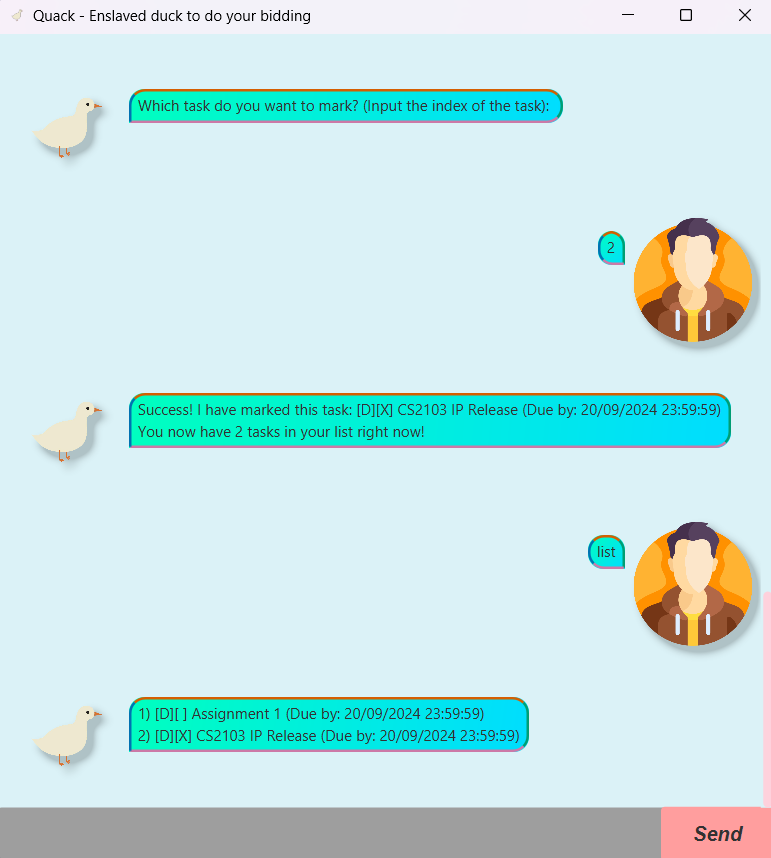
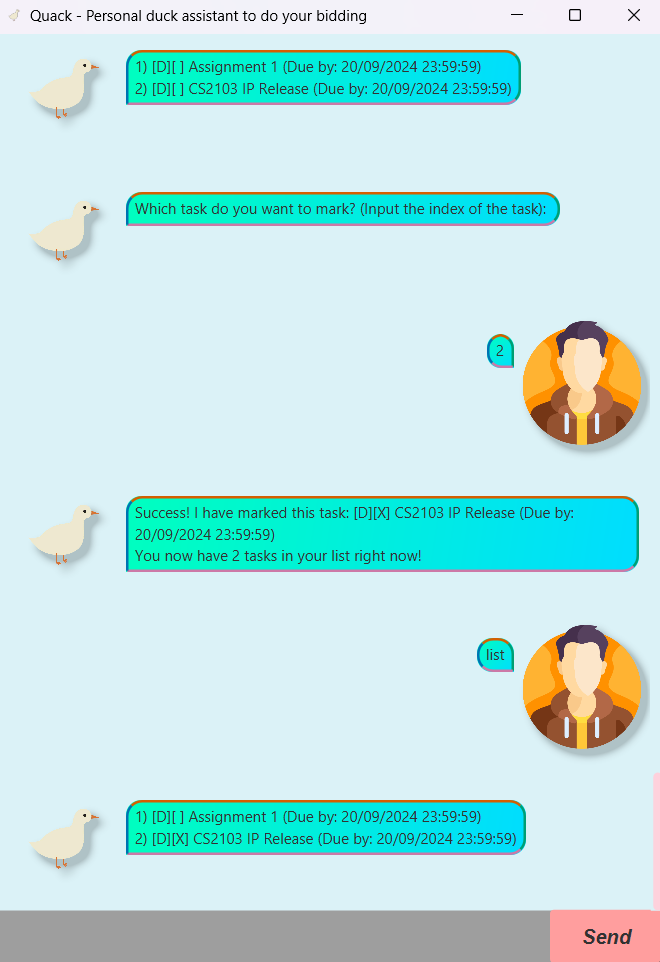
Add user guide to Quack

diff --git a/src/main/java/quack/gui/Main.java b/src/main/java/quack/gui/Main.java
@@ -25,7 +25,7 @@ public class Main extends Application {
             Scene scene = new Scene(ap);
             stage.setScene(scene);
             fxmlLoader.<MainWindow>getController().setQuack();
-            stage.setTitle("Quack - Enslaved duck to do your bidding");
+            stage.setTitle("Quack - Personal duck assistant to do your bidding");
             stage.getIcons().add(quackImage);
             stage.show();
         } catch (IOException e) {

diff --git a/docs/README.md b/docs/README.md
@@ -1,30 +1,230 @@
-# Quack User Guide
+# Quack - Your Personal Duck Assistant 
+---
+<div style="display: flex; align-items: flex-start;">
+  <image src="..\src\main\resources\images\duck.png" width="450" height="400">
+  <p style="margin-left: 10px; padding-top: 100px;">Hello nice to meet you I am your personal assistant</p>
+</div>
 
-   ```
-   ________                       __    
-   \_____  \  __ _______    ____ |  | __
-   /  / \  \|  |  \__  \ _/ ___\|  |/ /
-   /   \_/.  \  |  // __ \\  \___|    < 
-   \_____\ \_/____/(____  /\___  >__|_ \ 
-         \__>          \/     \/     \/
+## What is Quack
+Quack is a user friendly assistant which helps you keep track of pesky tasks and ensures you don't miss out on anything important!
 
-   Hello! I'm just an ordinary duck.
-   ```
+## Supported Features
+Here is a list of feaures that quack supports
+   1) List your tasks
+   2) Add a todo/deadline/event task
+   3) Find tasks inside yourlist
+   4) Delete tasks in your list
+   5) Mark or unmark tasks in your list
+   6) Tag or untag tasks inside your list for better organisation
+   7) A help feature to list all possible commands
 
-// Product intro goes here
+# Setting up Quack
+---
 
-Adding deadlines
-// Describe the action and its outcome.
+If you are using the `.jar` to run the program please skip to the [[#Quick Start by Running the JAR file|quick start]] portion of the guide.
 
-// Give examples of usage
+## InteliJ
+   Prerequisites: JDK 17, update Intellij to the most recent version.
 
-Example: keyword (optional arguments)
+   1. Open Intellij (if you are not in the welcome screen, click `File` > `Close Project` to close the existing project first)
+   2. Open the project into Intellij as follows:
+      - Click `Open`.
+      - Select the project directory, and click `OK`.
+      - If there are any further prompts, accept the defaults.
+   3. Configure the project to use **JDK 17** (not other versions) as explained in [here](https://www.jetbrains.com/help/idea/sdk.html#set-up-jdk).<br>
+      In the same dialog, set the **Project language level** field to the `SDK default` option.
+   4. Ensure Gradle is installed
+   5. After that, run gradle either by CLI `gradle run` or using the inbuilt Gradle GUI in IntelliJ. Running `gradle build` is optional but recommended
 
-// A description of the expected outcome goes here
+## VSCode
+   For VSCode :
+   1. Open VSCode
+   2. Open the project into VSCode as follows:
+      - Click `File` then `Open Folder`.
+      - Select the project directory, and click `OK`.
+      - If there are any further prompts, accept the defaults.
+   3. Configure the project to use **JDK 17** (not other versions) as explained in [here](https://www.jetbrains.com/help/idea/sdk.html#set-up-jdk).<br>
+   4. Ensure Gradle is installed
+   5. After that, run gradle either by CLI `gradle run` or using the inbuilt Gradle GUI on the side pannel to the left/right. Running `gradle build` is optional but recommended
 
-expected output
-Feature ABC
-// Feature details
+## Quick Start by Running the JAR file
 
-Feature XYZ
-// Feature details
+   1) Ensure you have JDK-17.0.12 or equivalent is installed locally in your Computer
+   2) Download the latest `.jar` file from here
+   3) Copy the file to the folder you want to use as the home folder for Quack.
+   4) Open a command terminal, `cd` into the folder you put the `.jar` file in, and use the following command`java -jar quack.jar` to run the application.
+
+> Please note that A GUI similar to the below should appear in a few seconds. Note that the image shows some sample data and some uage examples.
+
+<div style="display: flex; align-items: center; justify-content: center;">
+  <image src="Ui.png">
+</div>
+<br></br>
+
+   4) Type a command in the text input at the bottom and press Send to execute it
+   5) For what commands to type, just key in `help` into the text input
+
+# Features
+---
+
+> Do note that the images to display expected outcomes uses sample data
+
+## Listing Tasks - `list`
+Displays a list of all tasks that is being kept track of by Quack.
+
+Format: `list`
+
+__Sample Output:__
+<div style="display: flex; align-items: center; justify-content: center;">
+  <image src="expected-outputs\List-Command.png">
+</div>
+
+## Listing Tasks - `add`
+Adds a todo, deadline or event task into Quack's task list.
+
+Depending on what task type Quack will prompt you the necessary information part by part.
+
+Format
+- `add`
+- `<Task Type>`
+- `<Task information>`
+
+__Example__:
+- `add`
+- < Quack will prompt you what type of task you want to add >
+- `todo`
+- < Quack will prompt you the task description >
+- `Complete assignment`
+
+> For deadline and event tasks, Quack will prompt you for some date input in ths following format: DD/MM/YYYY HH:MM:SS
+
+__Sample Output:__
+<div style="display: flex; align-items: center; justify-content: center;">
+  <image src="expected-outputs\Add-Task-Command.png">
+</div>
+
+## Finding Tasks - `find`
+Ask Quack to find all tasks that matches the description or contains a substring of the description.
+
+Format
+- `find`
+- `<Task description>`
+
+__Example__:
+- `find`
+- < Quack will prompt you what task you will like to find >
+- `Assignment`
+
+__Sample Output:__
+<div style="display: flex; align-items: center; justify-content: center;">
+  <image src="expected-outputs\Find-Task-Command.png">
+</div>
+
+## Deleting Tasks - `delete`
+Ask Quack to delete a task from the list based on the tasks index.
+
+Format
+- `delete`
+- `<Task index as shown in the list>`
+
+__Example__:
+- `delete`
+- < Quack will prompt you what task you will like to delete >
+- `3`
+
+__Sample Output:__
+<div style="display: flex; align-items: center; justify-content: center;">
+  <image src="expected-outputs\Delete-Task-Command.png">
+</div>
+
+## Marking and Unmarking Tasks - `mark` & `unmark`
+You can ask Quack to mark and unmark tasks based on the tasks index.
+
+Format
+- `mark` or `unmark`
+- `<Task index as shown in the list>`
+
+__Example__:
+- `mark`
+- < Quack will prompt you what task you will like to mark >
+- `2`
+
+__Sample Output:__
+<div style="display: flex; align-items: center; justify-content: center;">
+  <image src="expected-outputs\Mark-Unmark-Task-Command.png">
+</div>
+
+## Tagging and Untagging Tasks - `tag` & `untag`
+You can ask Quack to tag or untag tasks to organise your tasks.
+
+Format
+- `tag` or `untag`
+- `<Task index as shown in the list>`
+- `<Tag label>`
+
+__Example__:
+- `tag`
+- < Quack will prompt you what task you will like to tag >
+- `2`
+- < Quack will prompt you for the tag lable>
+- `CS2103`
+
+> For untagging Quack will not prompt you for a tag label
+
+__Sample Output:__
+<div style="display: flex; align-items: center; justify-content: center;">
+  <image src="expected-outputs\Tag-Untag-Task-Command.png">
+</div>
+
+## Help function - `help`
+In the event the user forgets the commands to type, they can ask quack to list it out.
+
+Format
+- `help`
+
+__Example__:
+- `tag`
+- < Quack will print all the supported commands >
+
+__Sample Output:__
+<div style="display: flex; align-items: center; justify-content: center;">
+  <image src="expected-outputs\Help-Command.png">
+</div>
+
+## Exiting the program - `bye`
+This is to close the program properly
+
+Format
+- bye`
+
+__Example__:
+- `bye`
+- < Quack will stop running >
+
+> After awhile the window will be closed after the `bye` command is executed
+
+__Sample Output:__
+<div style="display: flex; align-items: center; justify-content: center;">
+  <image src="expected-outputs\Bye-Command.png">
+</div>
+
+## Saving & loading of tasks
+Quack will save any data automatically once the `bye` command has been executed. There is no need to manually save.
+
+Quack will also automatically load in the saved data when the program first runs.
+
+# References
+---
+
+## Website to generate the ASCII Logo
+The website to generate the ASCII Logo can be found [here]((https://www.google.com/url?sa=t&rct=j&q=&esrc=s&source=web&cd=&cad=rja&uact=8&ved=2ahUKEwjNkMjnx_6HAxVN6zgGHSk9NLYQFnoECBwQAQ&url=https%3A%2F%2Fpatorjk.com%2Fsoftware%2Ftaag%2F&usg=AOvVaw1rmNDfu2i-RQ4_TslxEwcR&opi=89978449)).
+
+## Profile Pictures
+
+### Duck Icon
+
+For the duck icon it was retrieved [here](https://www.vecteezy.com/vector-art/25668392-simple-and-adorable-flat-colored-white-duck-illustration).
+
+### Person Icon
+
+For the person icon it was retrieved [here](https://www.flaticon.com/free-icon/man_4140061).

diff --git a/README.md b/README.md
@@ -1,23 +1,20 @@
-# Quack User Guide
-
-   ```
-   ________                       __    
-   \_____  \  __ _______    ____ |  | __
-   /  / \  \|  |  \__  \ _/ ___\|  |/ /
-   /   \_/.  \  |  // __ \\  \___|    < 
-   \_____\ \_/____/(____  /\___  >__|_ \ 
-         \__>          \/     \/     \/
-
-   Hello! I'm just an ordinary duck.
-   ```
+# Quack Setup Guide
+---
+<div style="display: flex; align-items: flex-start;">
+  <image src="src\main\resources\images\duck.png" width="450" height="400">
+  <p style="margin-left: 10px; padding-top: 100px;">Hello nice to meet you I am your personal assistant</p>
+</div>
 
 ## What is Quack?
 
-   Quack is a friendly chatbot which helps you keep track of pesky tasks, events or deadlines!
+   Quack is a user friendly assistant which helps you keep track of pesky tasks and ensures you don't miss out on anything important!
 
-## Setting up Quack
-   
-   ### InteliJ
+# Setting up Quack
+---
+
+If you are using the `.jar` to run the program please skip to the [[#Quick Start by Running the JAR file|quick start]] portion of the guide.
+
+## InteliJ
    Prerequisites: JDK 17, update Intellij to the most recent version.
 
    1. Open Intellij (if you are not in the welcome screen, click `File` > `Close Project` to close the existing project first)
@@ -30,7 +27,7 @@
    4. Ensure Gradle is installed
    5. After that, run gradle either by CLI `gradle run` or using the inbuilt Gradle GUI in IntelliJ. Running `gradle build` is optional but recommended
 
-   ### VSCode
+## VSCode
    For VSCode :
    1. Open VSCode
    2. Open the project into VSCode as follows:
@@ -41,8 +38,15 @@
    4. Ensure Gradle is installed
    5. After that, run gradle either by CLI `gradle run` or using the inbuilt Gradle GUI on the side pannel to the left/right. Running `gradle build` is optional but recommended
 
-# Features
+## Quick Start by Running the JAR file
 
+   1) Ensure you have JDK-17.0.12 or equivalent is installed locally in your Computer
+   2) Download the latest `.jar` file from here
+   3) Copy the file to the folder you want to use as the home folder for Quack.
+   4) Open a command terminal, `cd` into the folder you put the `.jar` file in, and use the following command`java -jar quack.jar` to run the application.
+
+# Features
+---
 Here is a list of features:
 
 * Adding a task
@@ -54,19 +58,20 @@ Here is a list of features:
 * Marking & unmarking tasks
 * Deleting a task
 * Tagging a Task
-* Filtering Tasks
-* Ending the chatbot
+* Finding Tasks
 
 # References
+---
 
 ## Website to generate the ASCII Logo
-
-https://www.google.com/url?sa=t&rct=j&q=&esrc=s&source=web&cd=&cad=rja&uact=8&ved=2ahUKEwjNkMjnx_6HAxVN6zgGHSk9NLYQFnoECBwQAQ&url=https%3A%2F%2Fpatorjk.com%2Fsoftware%2Ftaag%2F&usg=AOvVaw1rmNDfu2i-RQ4_TslxEwcR&opi=89978449
+The website to generate the ASCII Logo can be found [here]((https://www.google.com/url?sa=t&rct=j&q=&esrc=s&source=web&cd=&cad=rja&uact=8&ved=2ahUKEwjNkMjnx_6HAxVN6zgGHSk9NLYQFnoECBwQAQ&url=https%3A%2F%2Fpatorjk.com%2Fsoftware%2Ftaag%2F&usg=AOvVaw1rmNDfu2i-RQ4_TslxEwcR&opi=89978449)).
 
 ## Profile Pictures
 
 ### Duck Icon
-https://www.vecteezy.com/vector-art/25668392-simple-and-adorable-flat-colored-white-duck-illustration
+
+For the duck icon it was retrieved [here](https://www.vecteezy.com/vector-art/25668392-simple-and-adorable-flat-colored-white-duck-illustration).
 
 ### Person Icon
-https://www.flaticon.com/free-icon/man_4140061
+
+For the person icon it was retrieved [here](https://www.flaticon.com/free-icon/man_4140061).
